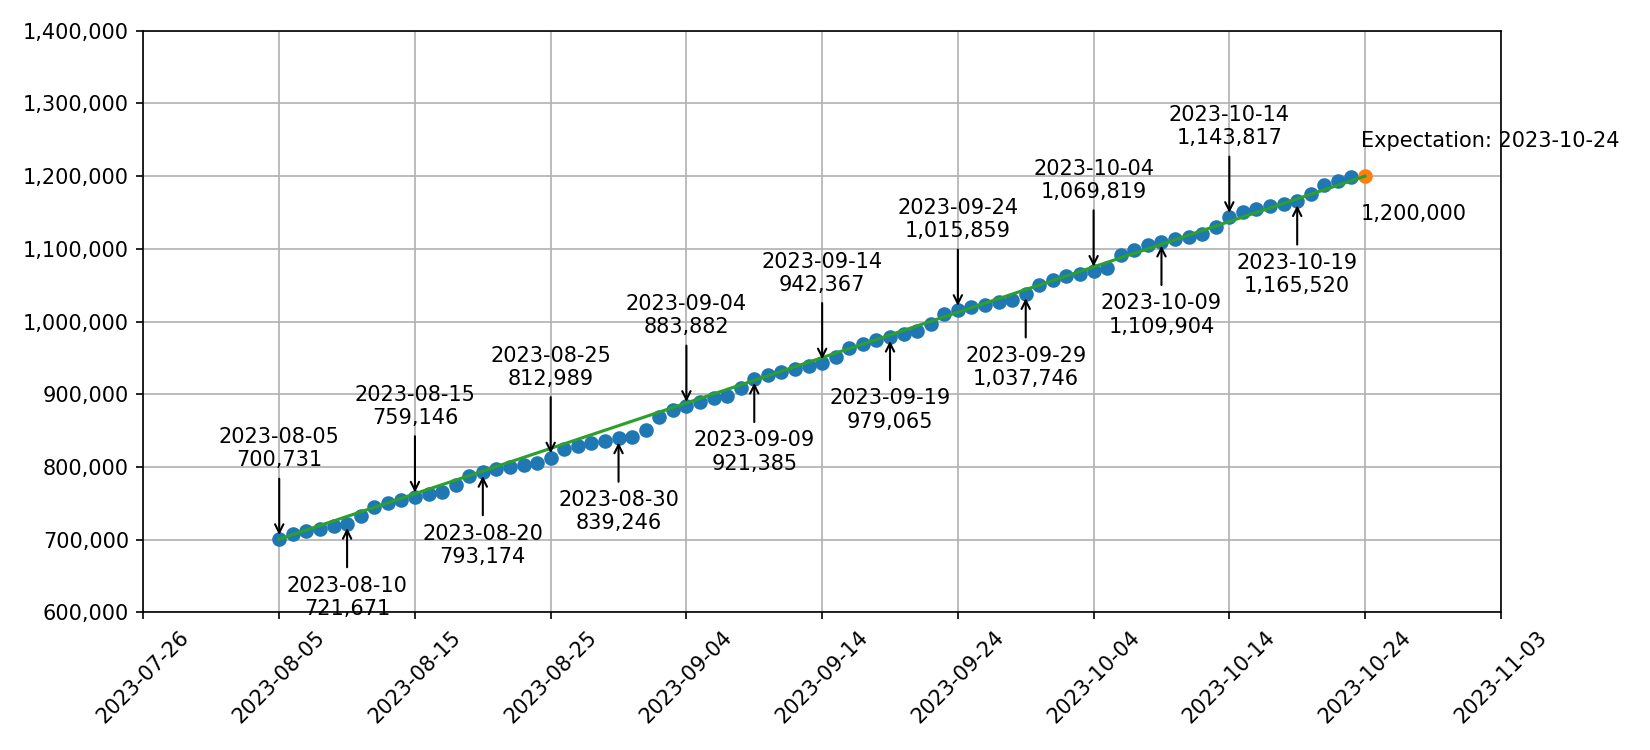
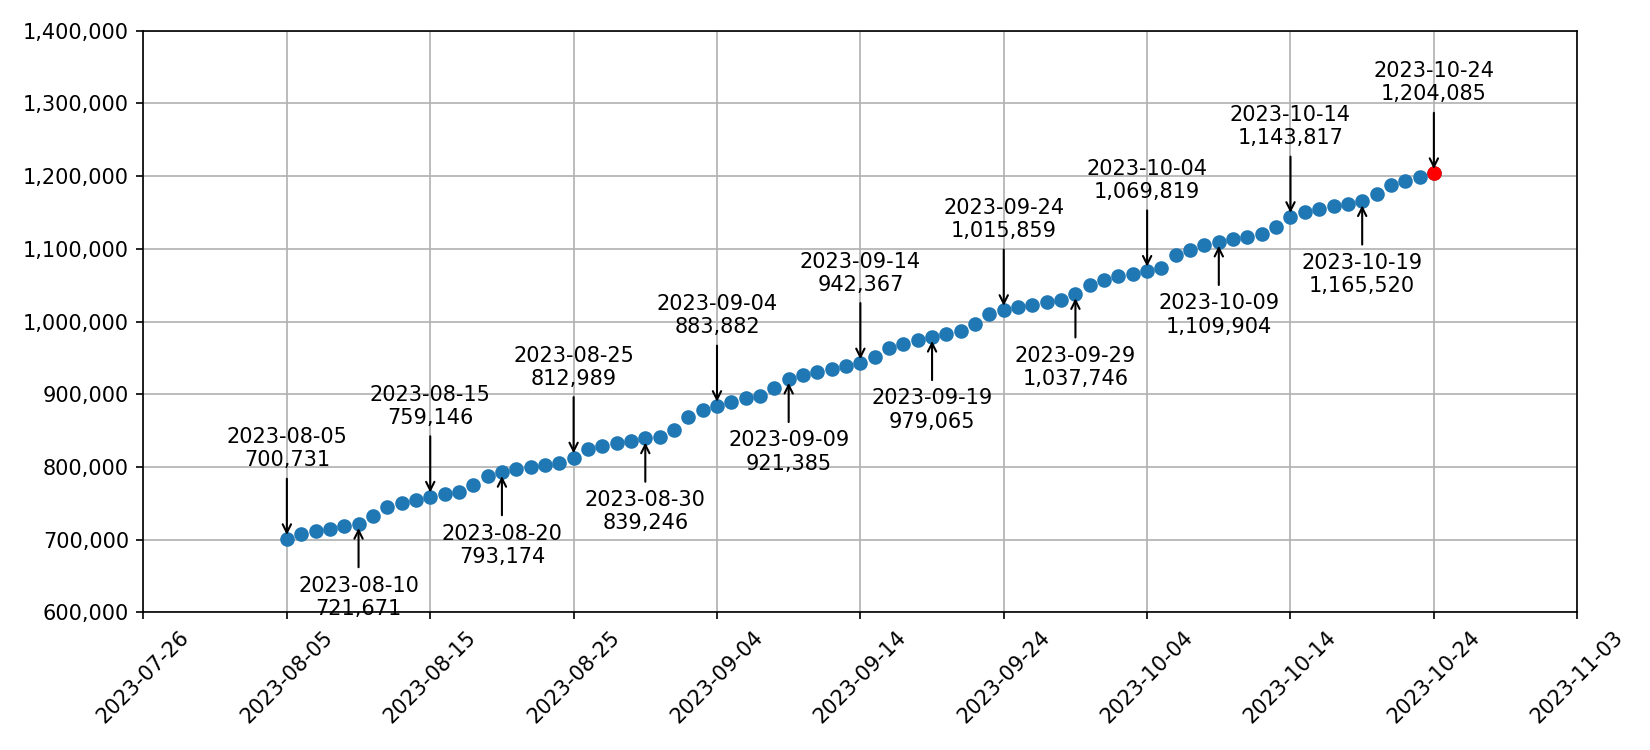
update prediction.png

diff --git a/src/lib/prediction.py b/src/lib/prediction.py
@@ -9,6 +9,8 @@ startingDate = datetime.datetime(2023, 8, 5)
 URL = "https://sehasu-counter.s3.ap-northeast-2.amazonaws.com/dailyCounts.csv"
 df = pd.read_csv(URL)
 
+successedDate = [80]
+
 X = df["date"]
 y = df["totalCount"]
 
@@ -25,24 +27,30 @@ prediction = line_fitter.predict([[goal]])
 plt.figure(figsize=(11, 5))
 plt.ylim(600000, 1400000)  # y축 범위
 plt.plot(X, y, "o")  # 기록 데이터
-plt.plot(math.ceil(prediction[0]), predictor, "o")  # 예측 데이터
+for i in successedDate:
+    plt.plot(X[i], y[i], "o", color="red")  # 성공 데이터
+# 예측기능 범위 시작
+
+# plt.plot(math.ceil(prediction[0]), predictor, "o")  # 예측 데이터
 # 예측량 주석
-plt.annotate(
-    "Expectation: "
-    + (startingDate + datetime.timedelta(days=math.ceil(prediction[0]))).strftime(
-        "%Y-%m-%d"
-    ),
-    xy=(prediction[0], predictor),
-    xytext=(prediction[0], predictor + 40000),
-    ha="left",
-)
+# plt.annotate(
+#     "Expectation: "
+#     + (startingDate + datetime.timedelta(days=math.ceil(prediction[0]))).strftime(
+#         "%Y-%m-%d"
+#     ),
+#     xy=(prediction[0], predictor),
+#     xytext=(prediction[0], predictor + 40000),
+#     ha="left",
+# )
 # 기록 주석
-plt.annotate(
-    format(goal, ","),
-    xy=(prediction[0], predictor),
-    xytext=(prediction[0], predictor - 60000),
-    ha="left",
-)
+# plt.annotate(
+#     format(goal, ","),
+#     xy=(prediction[0], predictor),
+#     xytext=(prediction[0], predictor - 60000),
+#     ha="left",
+# )
+
+# 예측기능 범위 끝
 
 placing = 100000
 for i in range(len(X)):
@@ -60,7 +68,10 @@ for i in range(len(X)):
             placing = -125000
         else:
             placing = 100000
-plt.plot([X[0], math.ceil(prediction[0])], [y[0], predictor])  # 증가량 예측 직선
+# 예측기능 범위 시작
+# plt.plot([X[0], math.ceil(prediction[0])], [y[0], predictor])  # 증가량 예측 직선
+# 예측기능 범위 끝
+
 # plt.plot(line_fitter.predict(y.values.reshape(-1, 1)), y, "-")
 # plt.plot([X, y], [prediction[0], predictor])
 arrYticks, txtYticks = plt.yticks()
